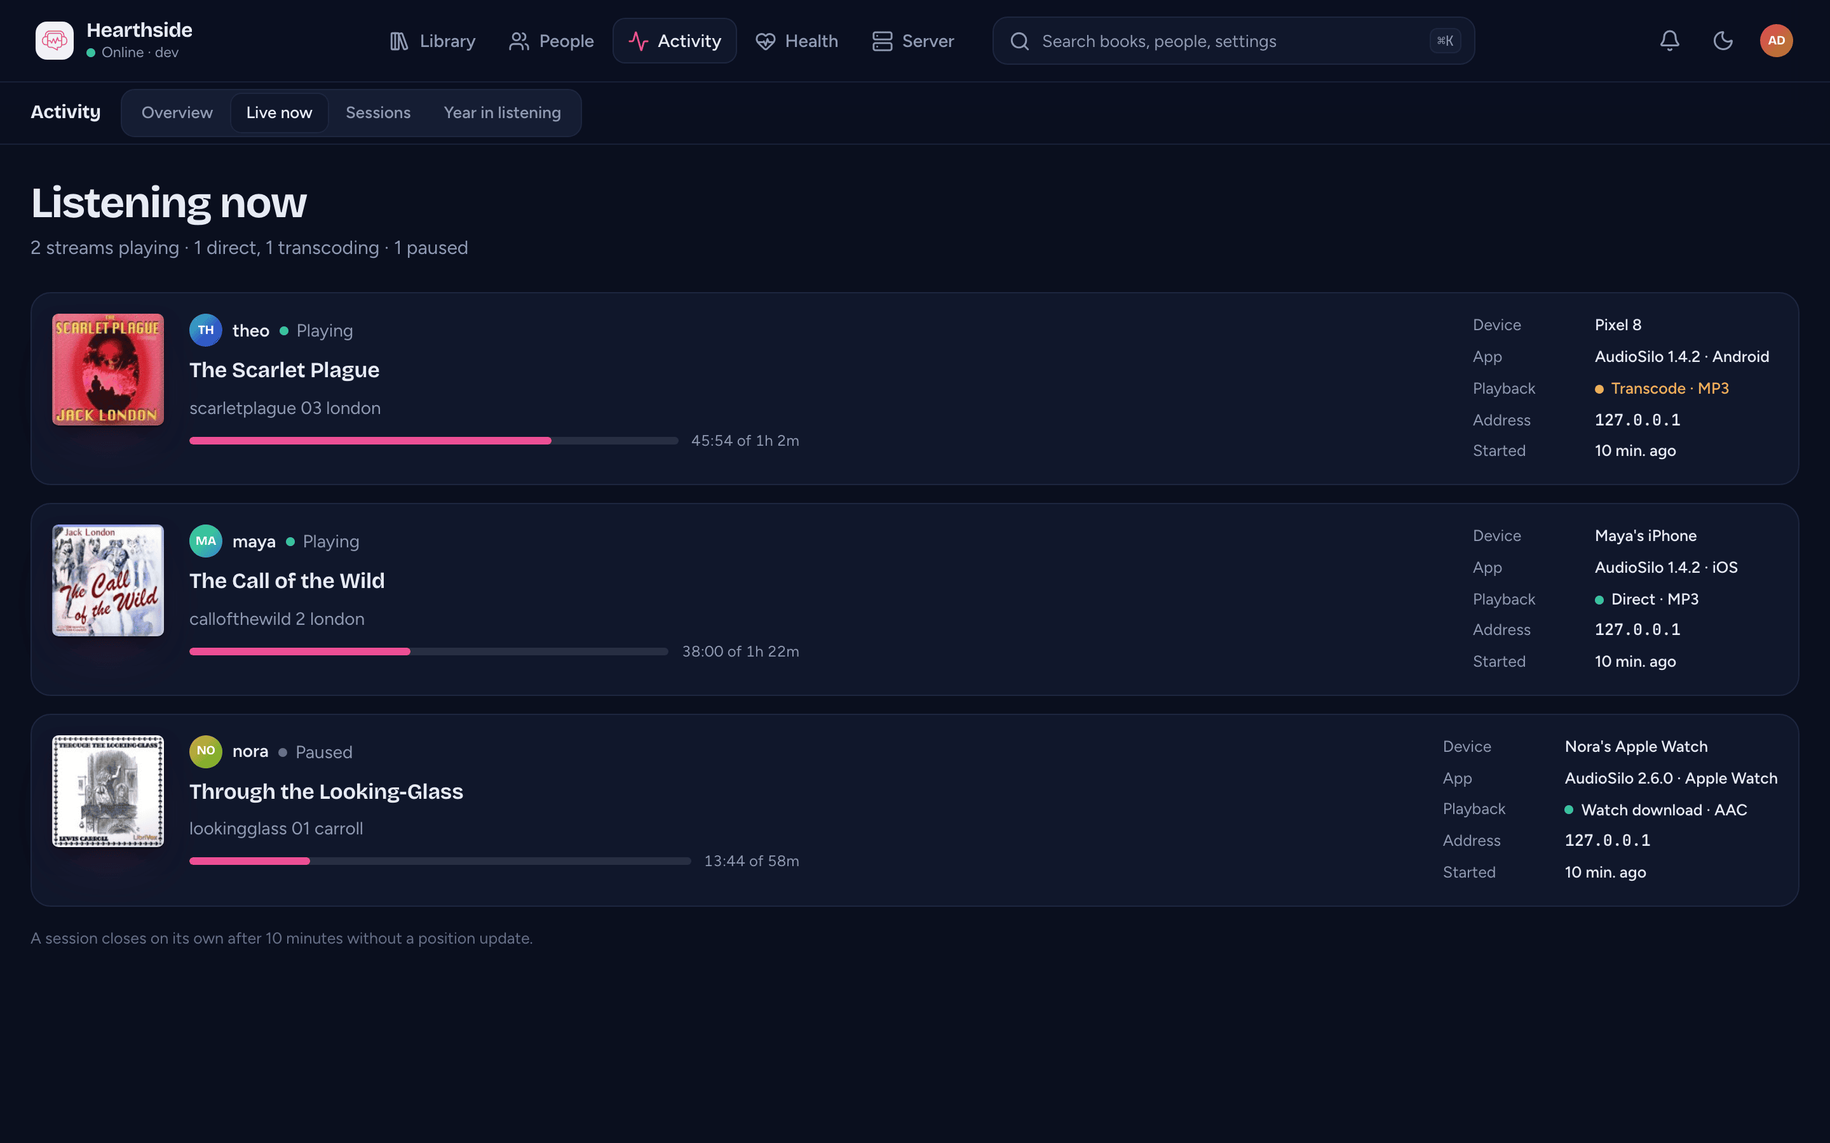
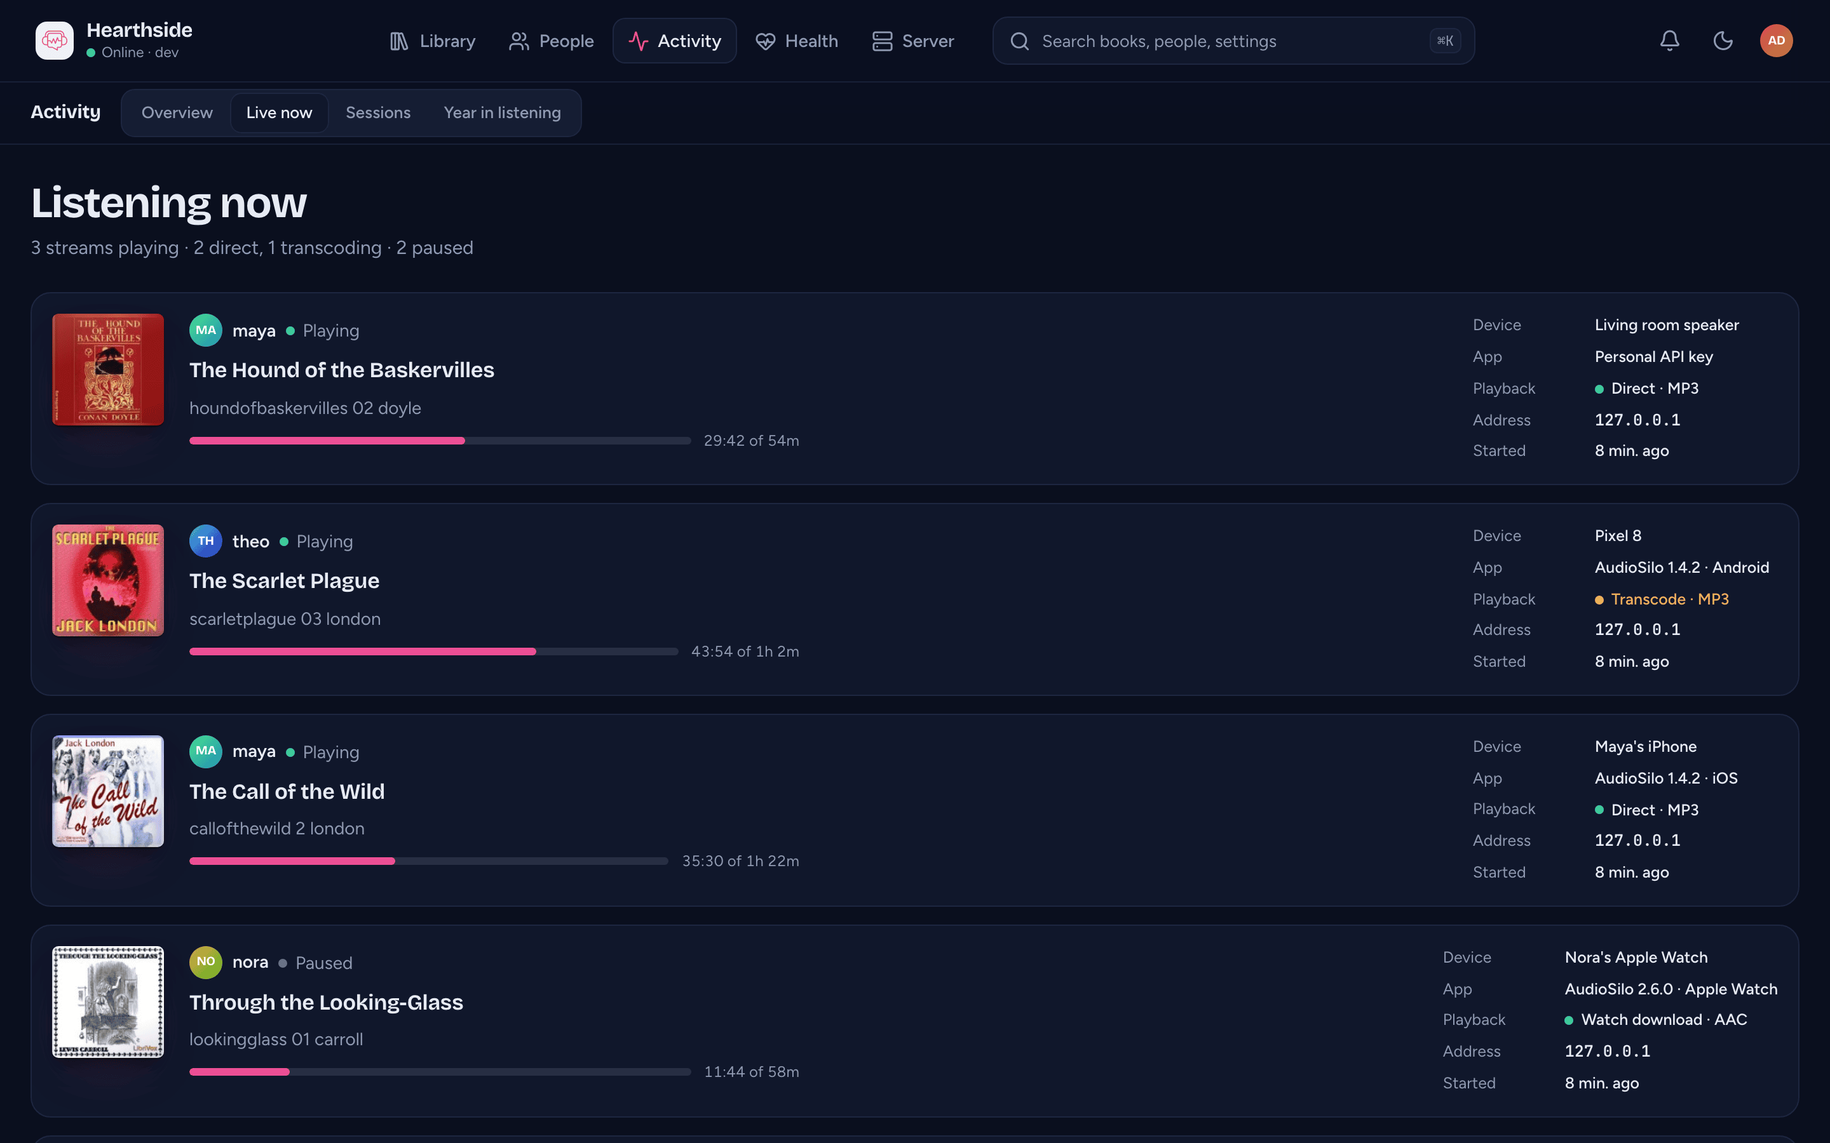
Document the console book page's dormant renames, background Re-read and API-key apps (#372)
Docs for KodeStar/audiosilo-server#579 (SRV-CONSOLE-BOOK).

- API reference: Re-read's 202 `{"still_reading": true}` after 25 s;
`dormant_renames` on the admin book; book facets `?only=total`;
`/admin/stats?parts=listening`; `cover_version` on 7 admin row types;
`api_key` on admin sessions and clients rows, and `/me/stats` clients
never split by key. No changelog entry: every changed route is under
`/admin`.
- Community chapters: renames kept while their chapter is missing.
- User Guide: books (Still reading, renames waiting for their chapters),
activity (Personal API key in Apps in use, Live now and Sessions),
health.
- Screenshots via screenshots/run.sh: new book-dormant-renames,
book-still-reading, activity-apps; activity-live and activity-sessions
recaptured. The capture stages two rename rows (removed after), fakes
the 202 for the toast like the existing 504 fake, and has maya play
through a personal API key.

diff --git a/docs-developers/server/api/reference.md b/docs-developers/server/api/reference.md
@@ -5246,7 +5246,10 @@ The fields mean what they mean in the admin's
 - `finished_books` - the books the caller finished in the period,
   newest first, up to 100.
 - `playback` and `clients` - the caller's listening by codec and transcoding,
-  and the caller's devices that listened, by app build.
+  and the caller's devices that listened, by app build. `clients` is never split
+  by API key. A key that named no app counts in the `app: ""` row, and no row has
+  the `api_key` field the admin
+  [Activity page](#range-listening-activity) adds.
 
 **Only the caller, and only what they can open now.** Nothing about other
 people is computed or sent: no `listeners`, `by_user`, `top_users`, funnel,
@@ -7310,6 +7313,10 @@ The facet panel for the same filter parameters as
 applied but its own**, so a facet shows what each choice would give; `total` is
 the count with all filters applied.
 
+| Query param | Type | Default | Notes |
+|---|---|---|---|
+| `only` | string | - | from 2.7.0: `total` answers `{"total": 812}` alone, the count with all filters applied, without counting a facet (the console's "N this week" on Books). Any other value is `400 only must be total` |
+
 ```json
 {
   "total": 812,
@@ -7725,6 +7732,15 @@ book path).
   and whether an edit renames it (never while an edited list applies: its titles
   are its own). Each carries its `file_path`, in-file `start` and `end`, and
   `book_offset`.
+- `dormant_renames` - from 2.7.0, the chapter renames that rename no chapter
+  the book has now. Each was made for a chapter at a file and start the files
+  no longer have (re-encoded with moved chapter marks, say). Each is
+  `{file, start, title}`, with the file relative to the book (`""` for a
+  single-file book's own file), the chapter's start in seconds in that file, and
+  the title it gives. A rename is kept and applies again if its chapter comes
+  back. Omitted when there are none, and while an edited list applies
+  (`chapter_edit` `state: "applied"`), whose titles are the edit's, so every
+  rename waits. The console lists them in a notice on the Chapters card.
 - `files` - each audio file (a single-file book lists itself), with its own
   `codec` and a derived `bitrate` in bits per second (`0` when the duration is
   unknown).
@@ -8699,7 +8715,8 @@ item's score, so every page follows one order), `?limit=` (1-200, default 50).
   list the work's series in the community's order, the first as the main one.
   The match dialog's [proposal](#get-apiv1adminbooksmatch-proposal) instead
   offers the book's own series as the main one when the work is in it.
-- `book` is the book as it is now, with its `duration` in seconds when known.
+- `book` is the book as it is now, with its `duration` in seconds when known,
+  and from 2.7.0 its [`cover_version`](#get-apiv1librariesidbooks).
   For `outcome: "none"`, it includes the current `asin` and `isbn` when present.
   The item has `gone: true` when nothing is indexed at the path any more.
 - `identifier_unknown: true` on a refresh item means the identifier lookup
@@ -9196,7 +9213,8 @@ a scan last finished.
   (for `duplicate`, the number of **groups**); `ignored` - how many an admin
   ignored (groups for `duplicate`).
 - `samples` - up to three books to show (the newest, or each group's first
-  copy), `[]` when none.
+  copy), `[]` when none. From 2.7.0 each carries its book's
+  [`cover_version`](#get-apiv1librariesidbooks) for the console's cover URLs.
 - `offline` - libraries whose root can't be read right now (the same probe as
   `available` on [`GET /admin/libraries`](#get-apiv1adminlibraries)), with
   their indexed `books` and how many people have `listeners` progress in them:
@@ -9392,16 +9410,24 @@ returns its book page, the same body as
 required. It runs outside the job queue (one book is quick), so it never waits
 behind a library scan. The re-read runs detached from the request, for up to 10
 minutes (and never past server shutdown), so on a slow share it is still saved
-even if the response times out; the book's next look shows it. The console uses
+even if the response times out; the book's next look shows it. From 2.7.0, when
+the re-read is still going 5 seconds before the request timeout (25 seconds in),
+the server answers `202` `{"still_reading": true}` and the re-read goes on. A
+failure after that answer goes to the server log as a warning (the server's
+stop, or no book at the path any more, is not logged). Another
+read of the book already under way (a second click, a scan's) is waited on for
+as long as it moves on, then the re-read reads the book itself, so a change
+made since that read began is picked up. The console uses
 it for "Read the files again" on a book's page and "Read again" on Health's
-unreadable files.
+unreadable files, and says "Still reading" on a `202`.
 
 | Status | Meaning |
 |---|---|
 | `200` | the book page, re-read; check `book.scan_error` to see whether the problem is gone |
+| `202` | from 2.7.0: `{"still_reading": true}`, the re-read is still going and is saved when it ends; read the book page again later |
 | `400` | `invalid library id`; `path is required` |
 | `404` | `library not found`; `code: "not_indexable"` - there is no book at that path any more (gone from disk, not a book, or skipped by the library's ignore rules) |
-| `503` | from 2.7.0: `code: "stopping"` (`Retry-After: 10`) when the server's shutdown ended the re-read, instead of a `500`; `code: "share_not_answering"` (`Retry-After: 30`) when another read of the book, held on a share that stopped answering, has not returned in time, when one of the re-read's looks at the share waited 10 seconds, or when the re-read kept the book as stored because a file did not answer |
+| `503` | from 2.7.0: `code: "stopping"` (`Retry-After: 10`) when the server's shutdown ended the re-read, instead of a `500`; `code: "share_not_answering"` (`Retry-After: 30`) when another read of the book, held on a share that stopped answering, stops moving on, when one of the re-read's looks at the share waited 10 seconds, or when the re-read kept the book as stored because a file did not answer |
 
 ### `GET /api/v1/admin/jobs`
 
@@ -9567,6 +9593,7 @@ The session object, shared by both session routes:
   "device_id": 57,
   "device_name": "Pixel 9",
   "client": { "app": "AudioSilo", "version": "1.4.2", "platform": "android" },
+  "cover_version": "3f9a1c07be",
   "started_at": "2026-10-04T19:02:11.000Z",
   "last_at": "2026-10-04T19:41:56.000Z",
   "start_position": 10620.4,
@@ -9593,6 +9620,14 @@ The session object, shared by both session routes:
   `client` are copied onto the session when it is recorded, so they survive the
   device's sign-out. `client` is `null` for an app that never named itself
   (players released before the header).
+- `api_key` - from 2.7.0, `true` when the device is a personal API key (read
+  from its token while the token is kept; omitted otherwise). `device_name` is
+  then the key's label. A script on a key usually sends no app header, so the
+  console names its app "Personal API key" rather than "Unknown app".
+- `cover_version` - from 2.7.0, the book's
+  [`cover_version`](#get-apiv1librariesidbooks), the same value its book row
+  sends, for the console's cover URLs; omitted when the path is no indexed book
+  (any more).
 - Times are UTC with milliseconds. `started_at` is the first save of the
   session, `last_at` the newest.
 - `start_position` / `position` are the book positions (seconds) at the first
@@ -9742,14 +9777,17 @@ by shares (admin view).
       "title": "The Final Empire",
       "author": "Brandon Sanderson",
       "started_at": "2026-09-12T20:03:10Z",
-      "finished_at": null
+      "finished_at": null,
+      "cover_version": "3f9a1c07be"
     }
   ]
 }
 ```
 
 The [progress fields](#get-apiv1meprogress) plus `title` / `author` (`""` when
-not indexed) and the dates. `started_at` is the time of the first save (`null`
+not indexed) and the dates. From 2.7.0 each row carries its book's
+`cover_version`, as on `GET /me/progress` (omitted when the path is no indexed
+book). `started_at` is the time of the first save (`null`
 for rows saved before the server recorded it). `finished_at` is the time of the
 save that last marked it finished, or of the admin edit that did. It is `null`
 while unfinished, and finished rows from before were given their last save time. `400 invalid user id`; `404 user not found`.
@@ -10167,13 +10205,16 @@ a cross-user "currently listening" feed (up to 200 rows, newest first; `title`/
       "position": 12043.6,
       "duration": 88347.4,
       "finished": false,
-      "updated_at": "2026-07-01T19:42:07Z"
+      "updated_at": "2026-07-01T19:42:07Z",
+      "cover_version": "3f9a1c07be"
     }
   ]
 }
 ```
 
-Each `libraries[]` entry carries its `kind` (`books` or `podcasts`, from
+From 2.7.0 a `listening` row carries its book's
+[`cover_version`](#get-apiv1librariesidbooks), omitted when the path is no
+indexed book. Each `libraries[]` entry carries its `kind` (`books` or `podcasts`, from
 2.4.0), so the dashboard's "Books per library" lists books libraries only.
 
 #### `?range=`: listening activity
@@ -10181,11 +10222,17 @@ Each `libraries[]` entry carries its `kind` (`books` or `podcasts`, from
 | Query param | Type | Default | Notes |
 |---|---|---|---|
 | `range` | string | - | `7d`, `30d`, `90d`, `1y` (365 days) ending now; a calendar year such as `2025` (from 2000 to this year; the current year ends now); or `year`, the current calendar year in **server** time. An empty value means `30d` |
+| `parts` | string | - | from 2.7.0, with `range`: `listening` answers the period's listening alone (below). Any other value is `400 parts must be listening` |
 
 With `range` present the response is **only** an **`activity`** object
 (`{"activity": {…}}`), the Activity page for the period, without the overview
 fields above; without it the response is exactly the one above. An unknown range is
-`400` `code: "invalid_range"`. Days, hours and weekdays are counted in the
+`400` `code: "invalid_range"`. With `&parts=listening` the `activity` object has
+only the period and its listening (`range` to `utc_offset`, `totals`,
+`estimated`, `previous`, `days`, `hour_weekday`, the `top_*` lists, `playback`,
+`peak_concurrent` and `clients`): `funnel`, `drop_offs`, `growth`, `storage`,
+`coverage` and `inactive_users` are left out and not computed. The console's
+Year in listening asks for it. Days, hours and weekdays are counted in the
 **server's** time zone.
 
 ```json
@@ -10206,19 +10253,21 @@ fields above; without it the response is exactly the one above. An unknown range
     "hour_weekday": [ [0, 0, "… 24 values …"], "… 7 rows, Monday first …" ],
     "top_books": [ { "library_id": 1, "path": "Brandon Sanderson/Mistborn/The Final Empire",
                      "title": "The Final Empire", "author": "Brandon Sanderson",
-                     "listened": 38211.0, "listeners": 2 } ],
+                     "listened": 38211.0, "listeners": 2, "cover_version": "3f9a1c07be" } ],
     "top_authors":   [ { "name": "Brandon Sanderson", "listened": 61022.4, "books": 3 } ],
     "top_narrators": [ { "name": "Michael Kramer", "listened": 61022.4, "books": 3 } ],
     "top_users": [ { "user_id": 4, "username": "sam", "listened": 201330.2,
                      "sessions": 96, "books": 9, "finished": 2 } ],
     "funnel": { "started": 31, "reached_25": 22, "reached_50": 15, "reached_75": 9, "finished": 6 },
     "drop_offs": [ { "library_id": 1, "path": "Old Books/The Long One", "title": "The Long One",
-                     "chapter_index": 3, "chapter": "Chapter 4", "listeners": 2, "scan_error": false } ],
+                     "chapter_index": 3, "chapter": "Chapter 4", "listeners": 2, "scan_error": false,
+                     "cover_version": "9d04e6b2a1" } ],
     "playback": [ { "transcoded": false, "codec": "aac", "listened": 380112.5, "sessions": 190 },
                   { "transcoded": true, "codec": "opus", "listened": 32268.0, "sessions": 24 } ],
     "peak_concurrent": { "streams": 3, "at": "2026-09-21T20:14:03Z" },
     "clients": [ { "app": "AudioSilo", "version": "1.4.2", "platform": "ios", "devices": 3 },
-                 { "app": "", "version": "", "platform": "", "devices": 1 } ],
+                 { "app": "", "version": "", "platform": "", "devices": 1 },
+                 { "app": "", "version": "", "platform": "", "api_key": true, "devices": 1 } ],
     "growth": [ { "date": "2026-09-04T19:42:08Z", "books": 1270 },
                 { "date": "2026-10-04T19:42:08Z", "books": 1284 } ],
     "storage": {
@@ -10270,7 +10319,9 @@ and only the part inside the period counts.
   names to books by the whole value); `books` counts distinct books.
   `top_users[].finished` counts that person's books finished in the period and
   `top_users[].books` the books they listened to or finished in it, counted
-  like `totals`.
+  like `totals`. From 2.7.0 a `top_books` entry carries its book's
+  [`cover_version`](#get-apiv1librariesidbooks), omitted when the path is no
+  indexed book (any more).
 - `funnel` - people x books with a progress save in the period, by how far each
   got (the current position, so a restarted book counts where it is now; a
   finished book counts as 100%).
@@ -10278,7 +10329,9 @@ and only the part inside the period counts.
   book: unfinished progress with no save for 30 days. `chapter_index` is
   0-based; `chapter` is its title tidied as on a live session (`""` when it
   names nothing, where the console says "Chapter `chapter_index` + 1");
-  `scan_error` says the book has a read problem the Health page lists.
+  `scan_error` says the book has a read problem the Health page lists; from
+  2.7.0 `cover_version` is the book's
+  [`cover_version`](#get-apiv1librariesidbooks).
   Independent of the period.
 - `playback` - listening by how it played: direct or `transcoded`, per `codec`
   (`""` unknown), with `listened` in the period and `sessions` started in it.
@@ -10287,7 +10340,11 @@ and only the part inside the period counts.
 - `clients` - the devices that listened in the period (raw sessions only),
   counted once per app build, using the app each session recorded at the time
   (a later upgrade doesn't rewrite the past). `app: ""` is a client that never
-  named itself (released before the header).
+  named itself (released before the header). From 2.7.0 the personal API keys
+  that named no app are their own row with `api_key: true` (omitted on every
+  other row), which the console calls "Personal API key"; a key whose script
+  sends an app header counts under that app. Only this admin view splits them
+  ([`GET /me/stats`](#get-apiv1mestats) does not).
 - `growth` - the number of books indexed now that had appeared on disk by each
   sample `date` (RFC 3339): daily for a period up to a month, weekly up to a
   quarter, monthly beyond, ending at `to`. Books removed since aren't counted

diff --git a/screenshots/README.md b/screenshots/README.md
@@ -166,6 +166,15 @@ script stores the empty file's problem (SQLite) as the scanner stores a timed-ou
 read (`probe_failed` with ffprobe's "timed out after 30s" message), opens that row's
 **Details** and puts the stored problem back after the shot.
 
+Two book-page shots stage what a scratch server can't produce. For
+`admin/book-dormant-renames.png` the script writes two `chapter_overrides` rows
+(SQLite) for A Christmas Carol, a few seconds past where its second and third
+chapters start, so no chapter starts there, as renames made before a re-encode
+moved the chapter marks would be; the rows are deleted right after the shot. For
+`admin/book-still-reading.png` the book's Re-read runs for real, and its answer
+reaches the console as a slow share's `202 {"still_reading": true}` (a
+Playwright route), since the seeded library is read in milliseconds.
+
 `admin/shares.png` is taken once the Inbox exists. It writes, with SQLite, the
 rules an older server allowed: a former grant (**Library: Fiction**, described
 "Whole library", no grant mark, sharing Jack London), which the console lists as
@@ -219,7 +228,10 @@ and Sessions read her session as **Watch download · AAC**), saves each one's pr
 before the first shot (so the overview and the people cards show them live),
 and keeps saving every 15 s in the background. Theo's device fetches a
 `?transcode=1` stream first (so his session counts as transcoded) and has an
-unused personal API key; maya adds two household members through the player's API
+unused personal API key; maya also plays a seventh book through a personal API
+key of hers labelled "Living room speaker", with no `X-AudioSilo-Client` (so
+`admin/activity-apps.png` and Live now show a **Personal API key** row); maya
+adds two household members through the player's API
 (`POST /me/household/members` as maya, after the listening is set up and only when
 those two shots are wanted: ivy, a kid on "Ivy's books", one of maya's collections,
 and dan, a grown-up on everything), which `admin/people.png` shows as maya's

diff --git a/docs-users/admin/books.md b/docs-users/admin/books.md
@@ -195,6 +195,12 @@ signed in. The **⋯** menu has **Read the files again**, which re-reads the
 book's files at once. Use it after you fix its tags or to measure its length
 again.
 
+On a slow disk or network share, the read can take longer than the console
+waits for an answer. The console then says **Still reading**. The server goes
+on reading and saves the result. Open the book's page again later to see it.
+
+![A book's page with the Still reading message after Read the files again](/img/screenshots/admin/book-still-reading.png)
+
 Further down are the book's files, its ebook and
 [Read-along](making-read-along.md#the-read-along-card) card if it has one, and
 its path on disk.
@@ -253,6 +259,13 @@ You can also take a cover from community metadata when you
 The **Chapters** card shows the book's chapters as a timeline and a list.
 Click a chapter's title to rename it. A revert button puts the file's title
 back.
+
+A rename belongs to the chapter's start time in its file. If the book's files
+change and no chapter starts there any more, the card lists the rename as
+waiting for its chapter. The server keeps it, and the rename comes back if its
+chapter does.
+
+![The Chapters card of A Christmas Carol with two chapter renames waiting for their chapters](/img/screenshots/admin/book-dormant-renames.png)
 
 #### Edit chapter times and titles
 

diff --git a/docs-developers/server/community-chapters.md b/docs-developers/server/community-chapters.md
@@ -309,7 +309,11 @@ only titles that changed are written.
 Chapter renames (`chapter_overrides`, keyed by file and start) apply after the
 source, except over an edited list. Renaming a community chapter therefore works
 like any rename, and switching back restores the files' chapters with their own
-renames.
+renames. A rename whose chapter the book no longer has (its files re-encoded with
+moved chapter marks, say) is kept and applies again if that chapter comes back.
+From 2.7.0 the console's book page lists such renames
+([`dormant_renames`](api/reference.md#get-apiv1adminlibrariesidbook), the rows
+that match no chapter by `chapterOverrideMatch`).
 
 ## Generated chapters
 

diff --git a/docs-users/admin/activity.md b/docs-users/admin/activity.md
@@ -42,6 +42,8 @@ Below the tiles:
 
 A notice lists anyone who hasn't been active for 60 days.
 
+![Apps in use with the AudioSilo apps, the watch and a Personal API key row](/img/screenshots/admin/activity-apps.png)
+
 ## Live now
 
 ![Activity > Live now](/img/screenshots/admin/activity-live.png)
@@ -166,3 +168,5 @@ when the account is deleted.
 - Listening imported from Audiobookshelf counts like any other, except in
   **Apps in use** and **How it played**.
 - An app too old to name itself to the server shows as "Unknown app".
+- A script on a personal API key that doesn't name its app shows as
+  **Personal API key**, with the key's name as the device.

diff --git a/docs-users/admin/health.md b/docs-users/admin/health.md
@@ -64,7 +64,8 @@ If a network share stops answering during **Read the files again**, the book
 appears under **Files that couldn't be read**. A scan that gives up on a folder
 lists the books in it there too. Once the share answers, **Read again** on the
 row, or the next scan, clears them. Libraries on other drives or shares keep
-scanning.
+scanning. On a slow share, **Read again** can say **Still reading**. The server
+then finishes the read on its own, as on [a book's page](books.md#a-books-page).
 
 ### Working through a list
 
